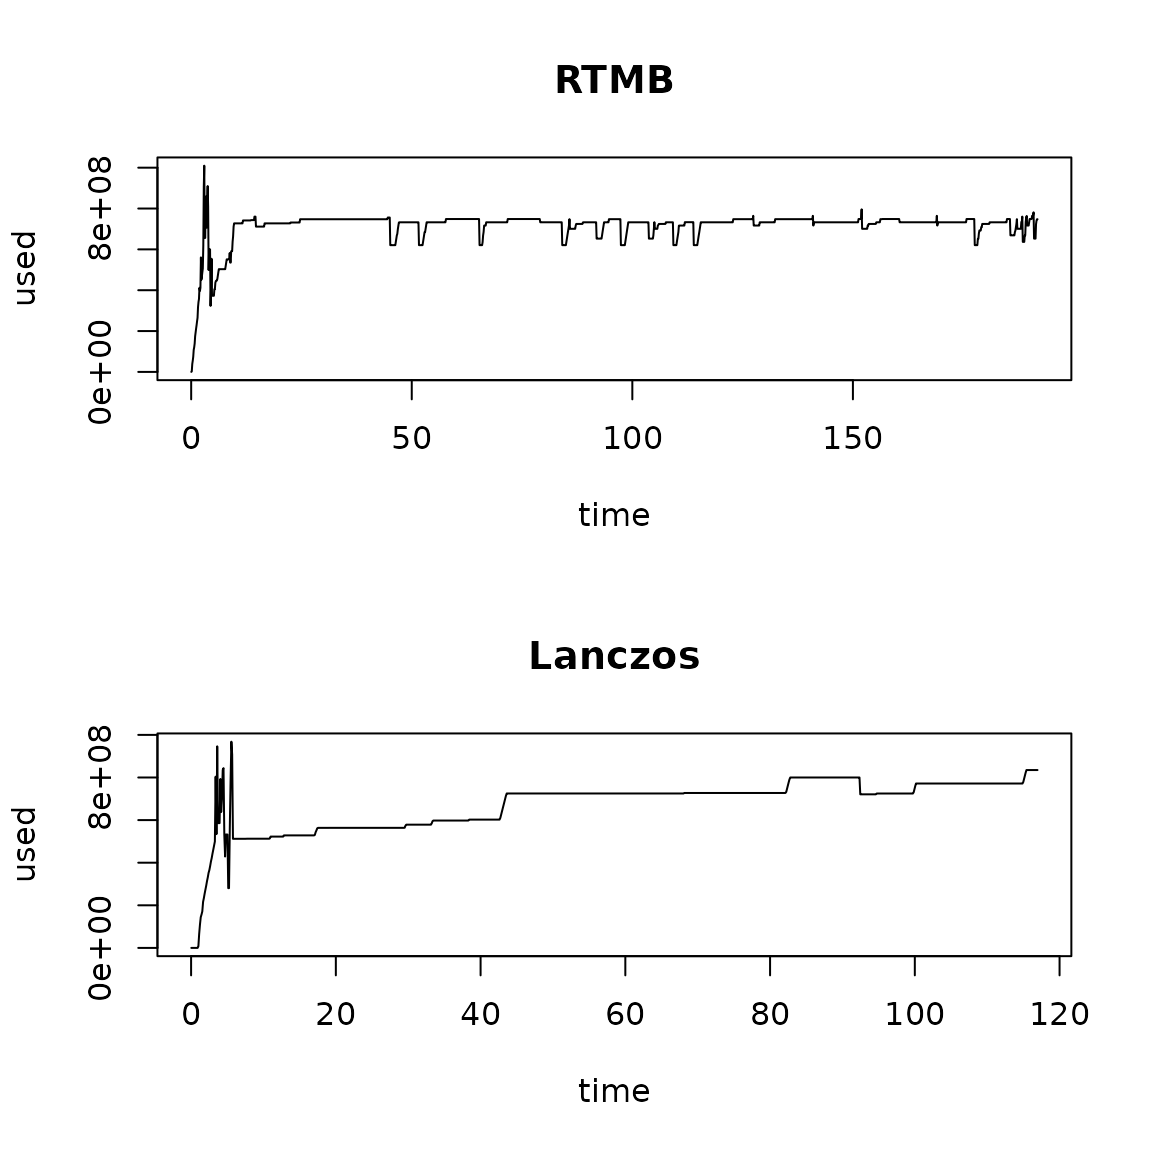
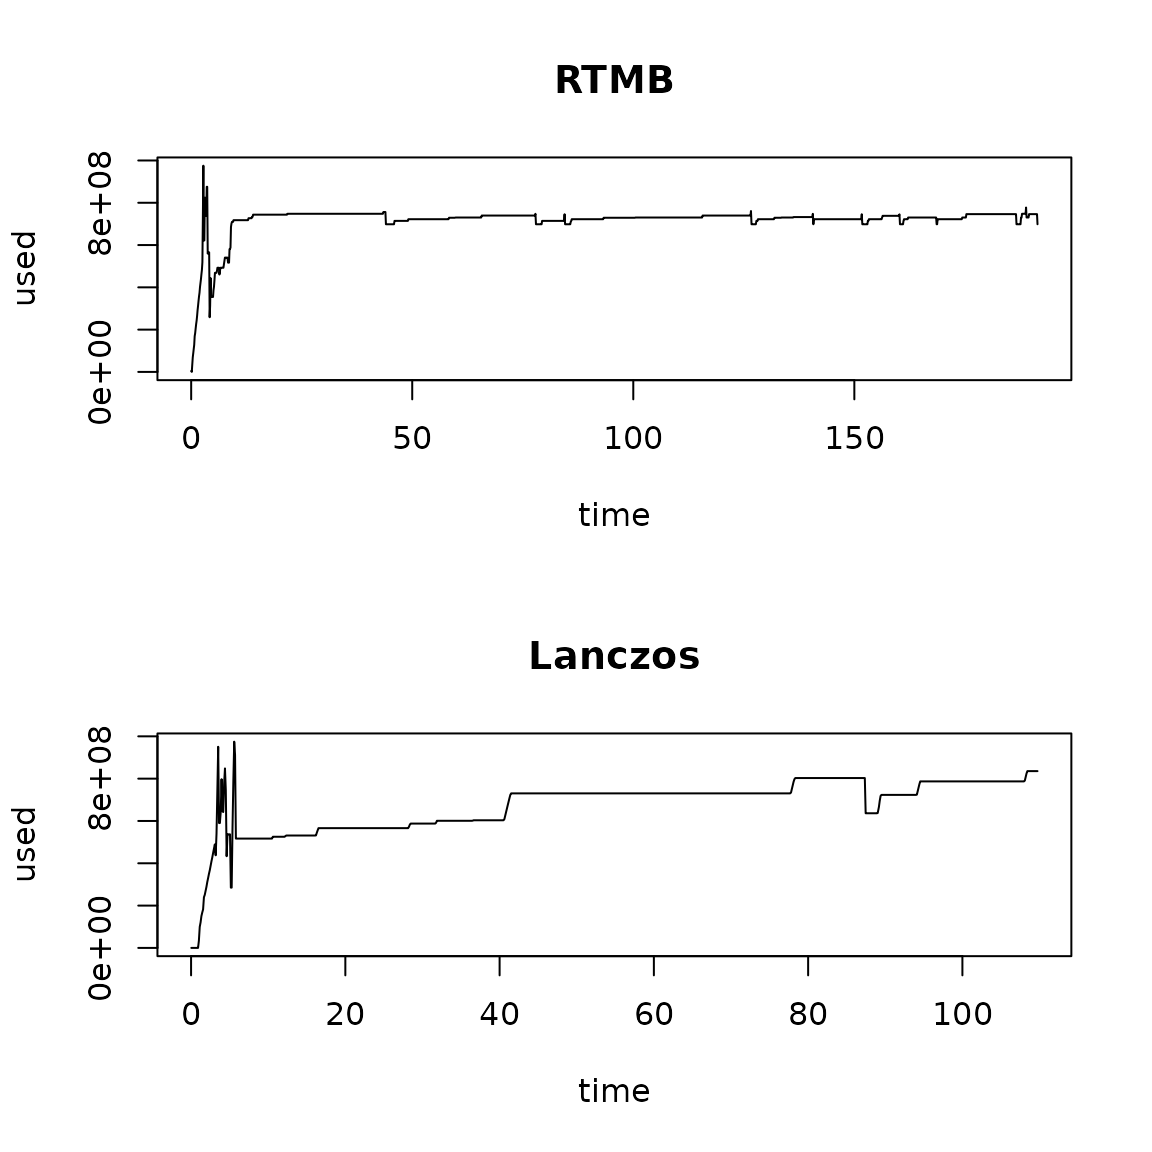
Deploying to gh-pages from @ James-Thorson/lanczosRTMB@dc03aaaf544eae0f27b66e328852656f90d03ab3 🚀

diff --git a/reference/newton_CG.html b/reference/newton_CG.html
@@ -244,7 +244,7 @@ This smartsearch behavior controlled by <code>u0</code>, <code>ustep</code>,
 <span class="r-plt img"><img src="newton_CG-1.png" alt="" width="700" height="433"></span>
 <span class="r-in"><span><span class="fu"><a href="https://rdrr.io/r/base/c.html" class="external-link">c</a></span><span class="op">(</span><span class="va">opt1</span><span class="op">$</span><span class="va">runtime</span>, <span class="va">opt2</span><span class="op">$</span><span class="va">runtime</span><span class="op">)</span></span></span>
 <span class="r-out co"><span class="r-pr">#&gt;</span> Time differences in secs</span>
-<span class="r-out co"><span class="r-pr">#&gt;</span> [1]  7.305285 17.730864</span>
+<span class="r-out co"><span class="r-pr">#&gt;</span> [1]  6.709519 19.919692</span>
 <span class="r-in"><span><span class="co"># newton_CG finds a slightly better fit</span></span></span>
 <span class="r-in"><span><span class="fu"><a href="https://rdrr.io/r/base/c.html" class="external-link">c</a></span><span class="op">(</span><span class="va">opt1</span><span class="op">$</span><span class="va">value</span>, <span class="va">opt2</span><span class="op">$</span><span class="va">value</span><span class="op">)</span></span></span>
 <span class="r-out co"><span class="r-pr">#&gt;</span> [1] -1220.361 -1220.467</span>

diff --git a/reference/lanczos_MakeADFun.html b/reference/lanczos_MakeADFun.html
@@ -57,7 +57,7 @@ a user-supplied joint likelihood and designated random effects</p>
 <span>  method <span class="op">=</span> <span class="fu"><a href="https://rdrr.io/r/base/c.html" class="external-link">c</a></span><span class="op">(</span><span class="st">"reverse-on-reverse"</span>, <span class="st">"sparse"</span>, <span class="st">"FD-on-reverse"</span><span class="op">)</span>,</span>
 <span>  seed <span class="op">=</span> <span class="fl">123</span>,</span>
 <span>  make_gr <span class="op">=</span> <span class="cn">TRUE</span>,</span>
-<span>  pu_update <span class="op">=</span> <span class="fu"><a href="https://rdrr.io/r/base/c.html" class="external-link">c</a></span><span class="op">(</span><span class="st">"implicit"</span>, <span class="st">"FD"</span>, <span class="st">"exact"</span><span class="op">)</span>,</span>
+<span>  pu_update <span class="op">=</span> <span class="fu"><a href="https://rdrr.io/r/base/c.html" class="external-link">c</a></span><span class="op">(</span><span class="st">"implicit"</span>, <span class="st">"FD"</span>, <span class="st">"exact"</span>, <span class="st">"implicit_FD"</span><span class="op">)</span>,</span>
 <span>  silent <span class="op">=</span> <span class="cn">TRUE</span></span>
 <span><span class="op">)</span></span></code></pre></div>
     </div>

diff --git a/articles/lanczos.html b/articles/lanczos.html
@@ -538,11 +538,11 @@ likelihood, pending improvements:</p>
 <tbody>
 <tr class="odd">
 <td align="left">RTMB</td>
-<td align="left">3.21 mins</td>
+<td align="left">3.20 mins</td>
 </tr>
 <tr class="even">
 <td align="left">Lanczos</td>
-<td align="left">1.96 mins</td>
+<td align="left">1.84 mins</td>
 </tr>
 </tbody>
 </table>
@@ -572,7 +572,7 @@ likelihood, pending improvements:</p>
 <tbody>
 <tr class="odd">
 <td align="left">RTMB</td>
-<td align="right">1.01</td>
+<td align="right">0.98</td>
 </tr>
 <tr class="even">
 <td align="left">Lanczos</td>
@@ -580,7 +580,7 @@ likelihood, pending improvements:</p>
 </tr>
 </tbody>
 </table>
-<p>Runtime for this vignette: 5.57 mins</p>
+<p>Runtime for this vignette: 5.45 mins</p>
 <div class="section level3">
 <h3 id="works-cited">Works cited<a class="anchor" aria-label="anchor" href="#works-cited"></a>
 </h3>

diff --git a/articles/lanczos.md b/articles/lanczos.md
@@ -534,8 +534,8 @@ knitr::kable( runtime, digits=2, caption="Run-times" )
 
 |         | x         |
 |:--------|:----------|
-| RTMB    | 3.21 mins |
-| Lanczos | 1.96 mins |
+| RTMB    | 3.20 mins |
+| Lanczos | 1.84 mins |
 
 Run-times {.table}
 
@@ -567,11 +567,11 @@ knitr::kable( max_memory, digits=2, caption="Maximum memory use (GB)" )
 
 |         |    x |
 |:--------|-----:|
-| RTMB    | 1.01 |
+| RTMB    | 0.98 |
 | Lanczos | 0.97 |
 
 Maximum memory use (GB) {.table}
 
-Runtime for this vignette: 5.57 mins
+Runtime for this vignette: 5.45 mins
 
 ### Works cited

diff --git a/reference/newton_CG.md b/reference/newton_CG.md
@@ -210,7 +210,7 @@ matplot( cbind(opt1$par, opt2$par), type = "l", col = c("black","blue","red"), l
 
 c(opt1$runtime, opt2$runtime)
 #> Time differences in secs
-#> [1]  7.305285 17.730864
+#> [1]  6.709519 19.919692
 # newton_CG finds a slightly better fit
 c(opt1$value, opt2$value)
 #> [1] -1220.361 -1220.467

diff --git a/reference/lanczos_MakeADFun.md b/reference/lanczos_MakeADFun.md
@@ -18,7 +18,7 @@ lanczos_MakeADFun(
   method = c("reverse-on-reverse", "sparse", "FD-on-reverse"),
   seed = 123,
   make_gr = TRUE,
-  pu_update = c("implicit", "FD", "exact"),
+  pu_update = c("implicit", "FD", "exact", "implicit_FD"),
   silent = TRUE
 )
 ```
